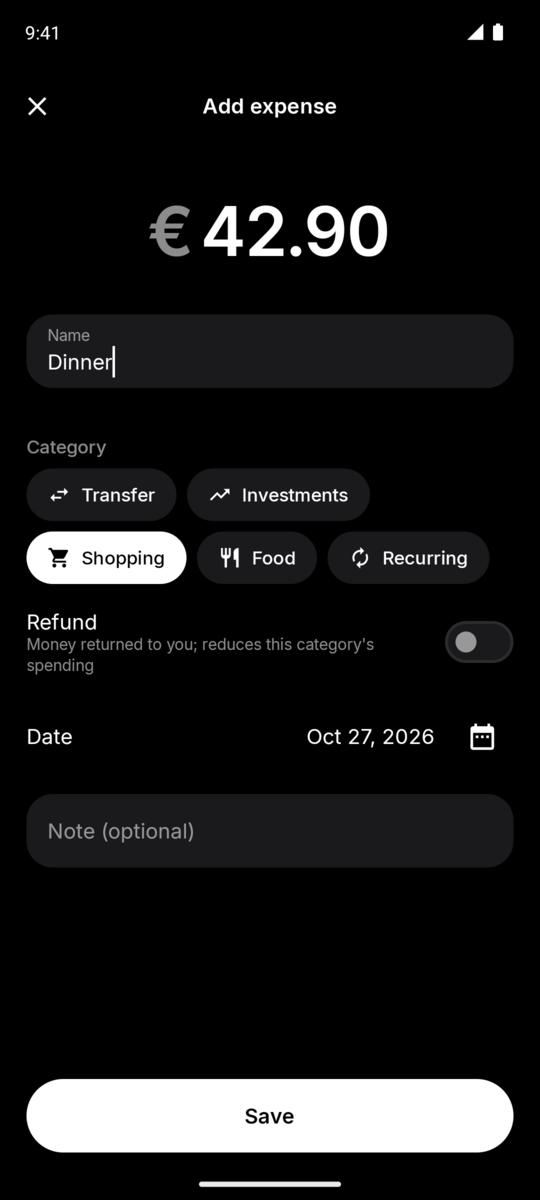
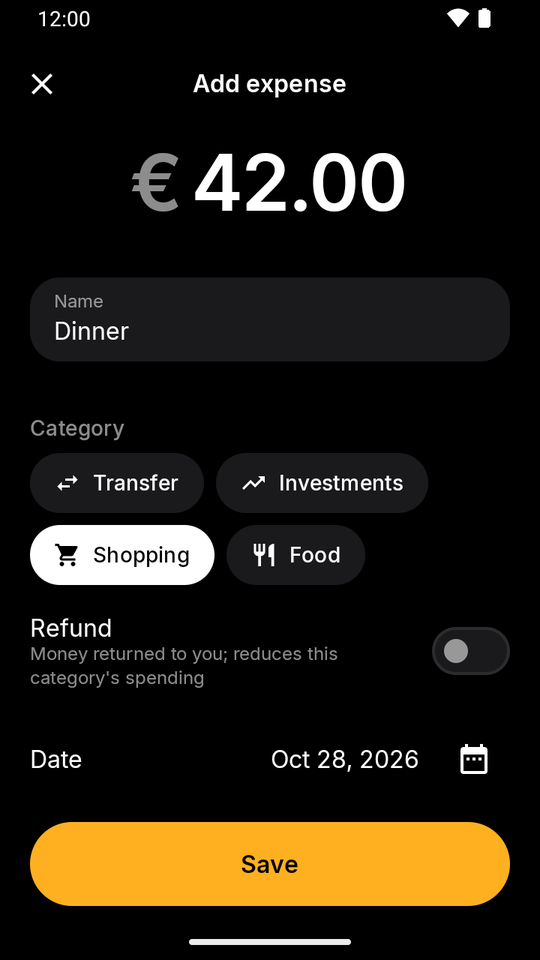
docs: new README screenshots for 2.3

diff --git a/README.md b/README.md
@@ -18,9 +18,11 @@
 </p>
 
 <p align="center">
-  <img src="docs/screenshots/dashboard.png" width="200" alt="Dashboard with balance, spending breakdown and budgets">
-  <img src="docs/screenshots/recent.png" width="200" alt="Recent expenses and income">
-  <img src="docs/screenshots/all-expenses.png" width="200" alt="Expense list with period filter, search and sort">
+  <img src="docs/screenshots/home.png" width="200" alt="Home with the month's balance, income, expenses and savings">
+  <img src="docs/screenshots/activity.png" width="200" alt="Activity: expenses and income in one list">
+  <img src="docs/screenshots/plan.png" width="200" alt="Plan tab for the month">
+  <img src="docs/screenshots/plan-income.png" width="200" alt="Expected income, one row per salary component">
+  <img src="docs/screenshots/insights.png" width="200" alt="Insights: fixed and variable spending">
   <img src="docs/screenshots/add-expense.png" width="200" alt="Add expense form">
 </p>
 
